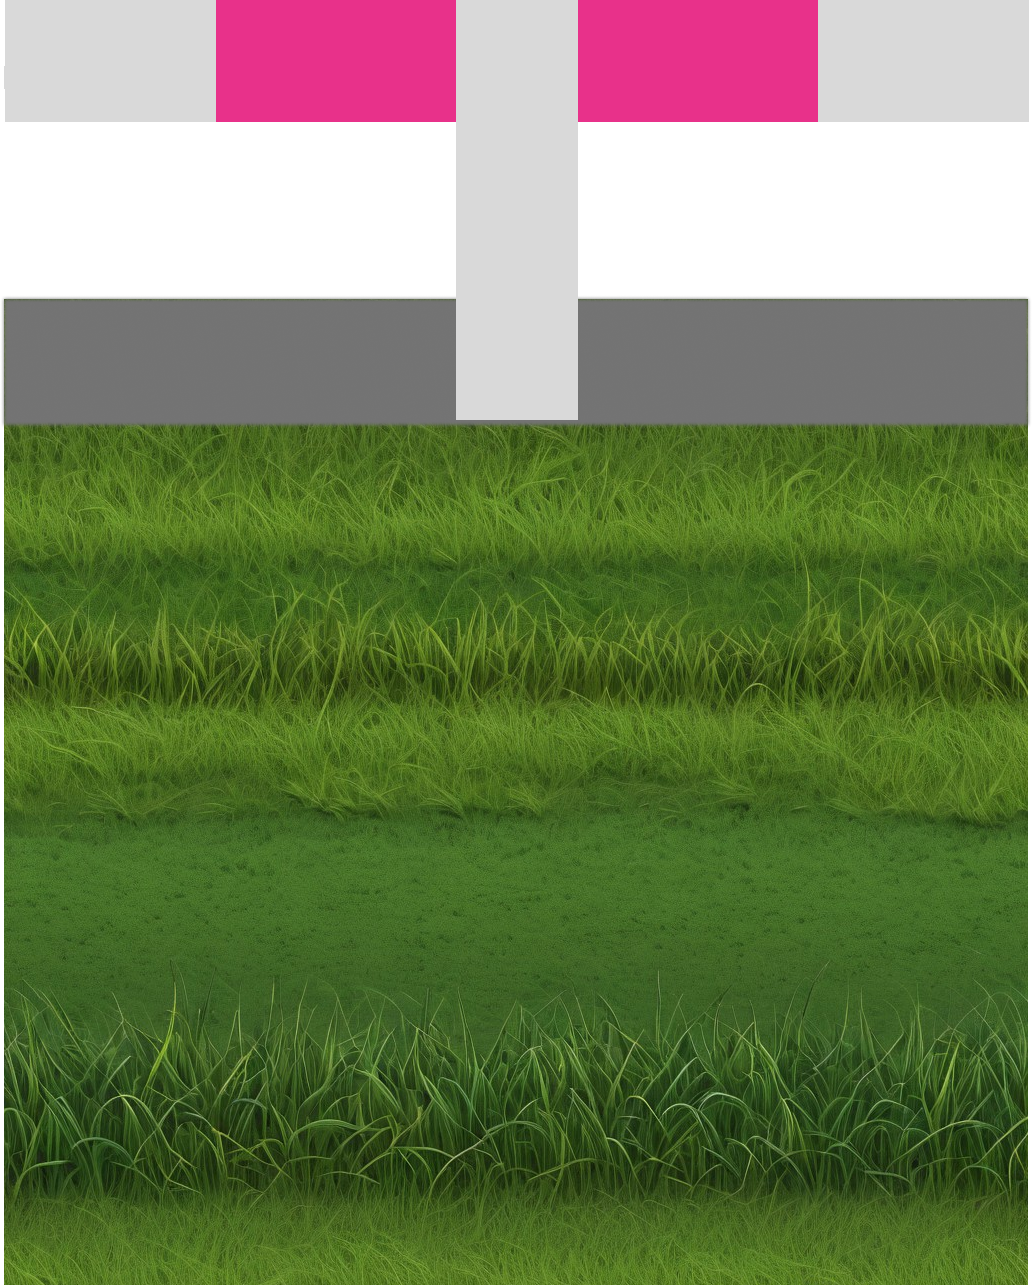
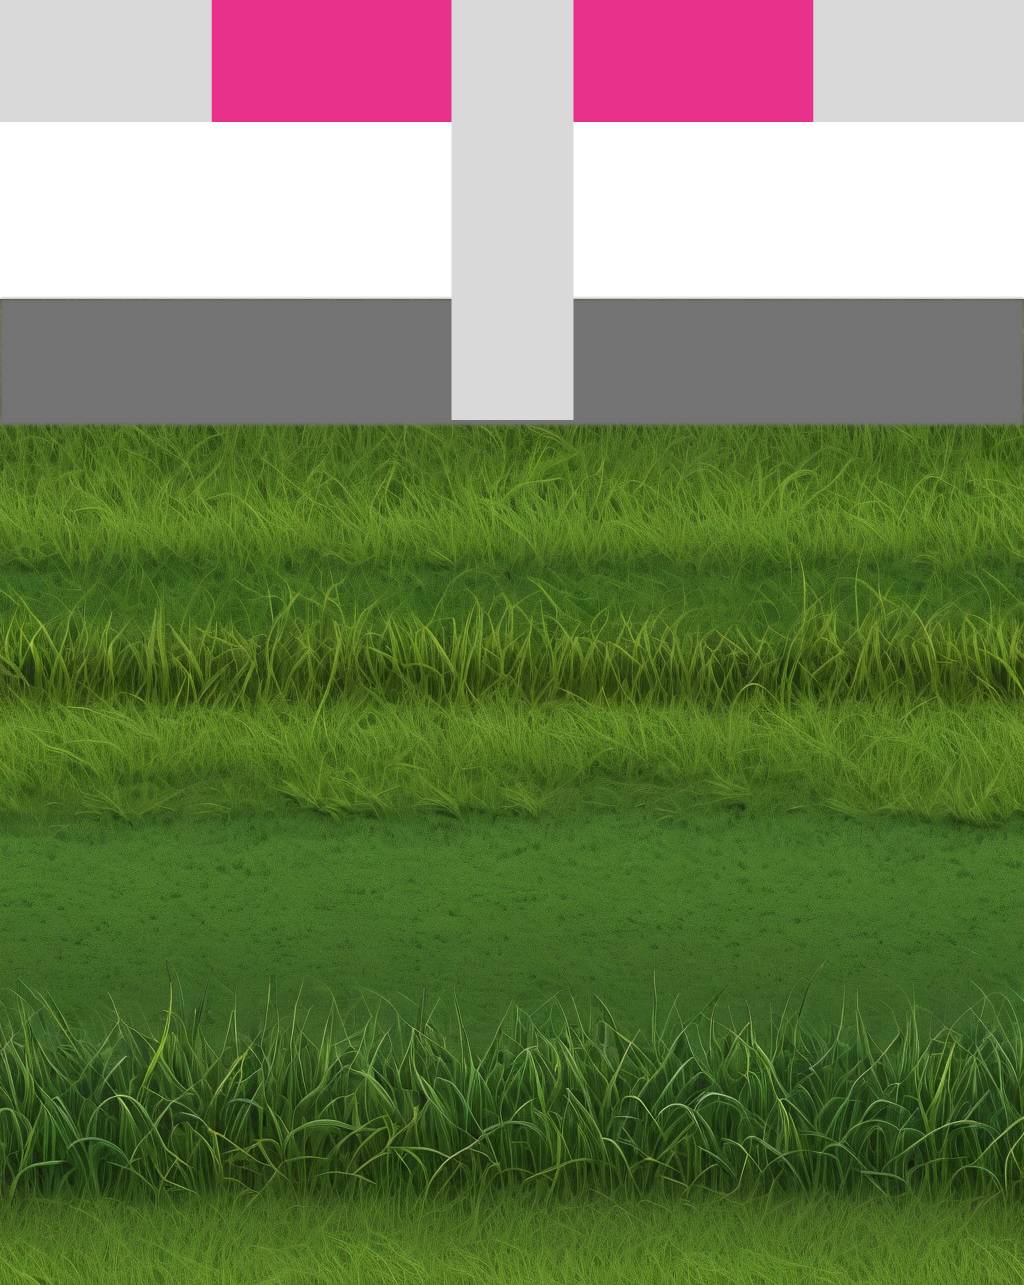
Optimize grass image rendering for better visual clarity.
Applied pixelated image-rendering styles to grass-related backgrounds in the race component. This ensures a sharper and more defined appearance, especially for pixel art aesthetics.

diff --git a/src/app/shared/race/race.component.scss b/src/app/shared/race/race.component.scss
@@ -123,6 +123,9 @@
 	background-size: contain;
 	background-repeat: repeat-x;
 	background-image: url('/assets/img/top_grass.png');
+	image-rendering: pixelated;
+	image-rendering: -moz-crisp-edges;
+	image-rendering: crisp-edges;
 }
 
 .grass {
@@ -131,4 +134,7 @@
 	background-size: contain;
 	background-repeat: repeat-x;
 	background-image: url('/assets/img/grass.png');
+	image-rendering: pixelated;
+	image-rendering: -moz-crisp-edges;
+	image-rendering: crisp-edges;
 }
